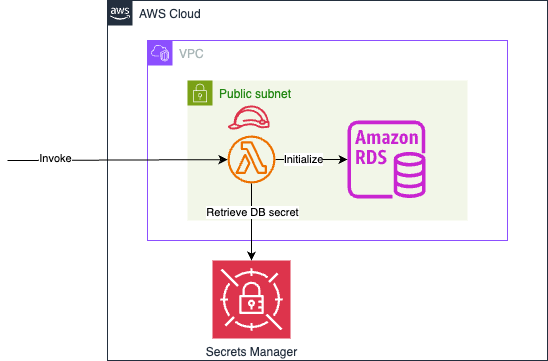
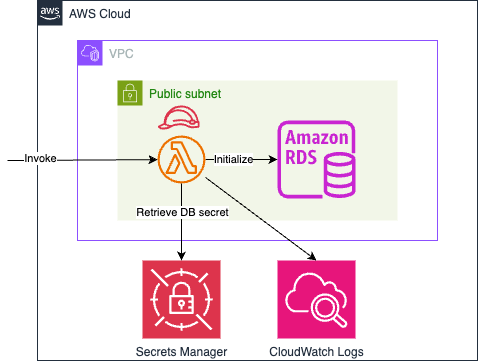
docs: update readme

diff --git a/rds-mysql-instance/README.md b/rds-mysql-instance/README.md
@@ -2,7 +2,8 @@ A terraform project that is used to create a MYSQL RDS instance in AWS, with the
 
 The AWS resources created in the project includes:
 1. A RDS instance with custom parameter group. The database secret is managed in Secrets Manager.
-2. A Lambda function and function execution role with appropriate permissions.
+2. A Lambda function and CloudWatch Logs group for function logs persistance. 
+3. A Lambda function execution IAM role with appropriate permissions.
 
 The architecture diagram shows as below.
 
@@ -15,7 +16,7 @@ The architecture diagram shows as below.
 ├── 01_data.tf                      # All file with .tf extension are Terraform related
 ├── 01_variables.tf
 ├── 01_versions.tf
-├── 02_lambda_function.tf
+├── 02_lambda_function.tf           # Use modules for AWS resoures
 ├── 02_main.tf
 ├── 03_outputs.tf
 ├── Makefile                        # Make scripts
